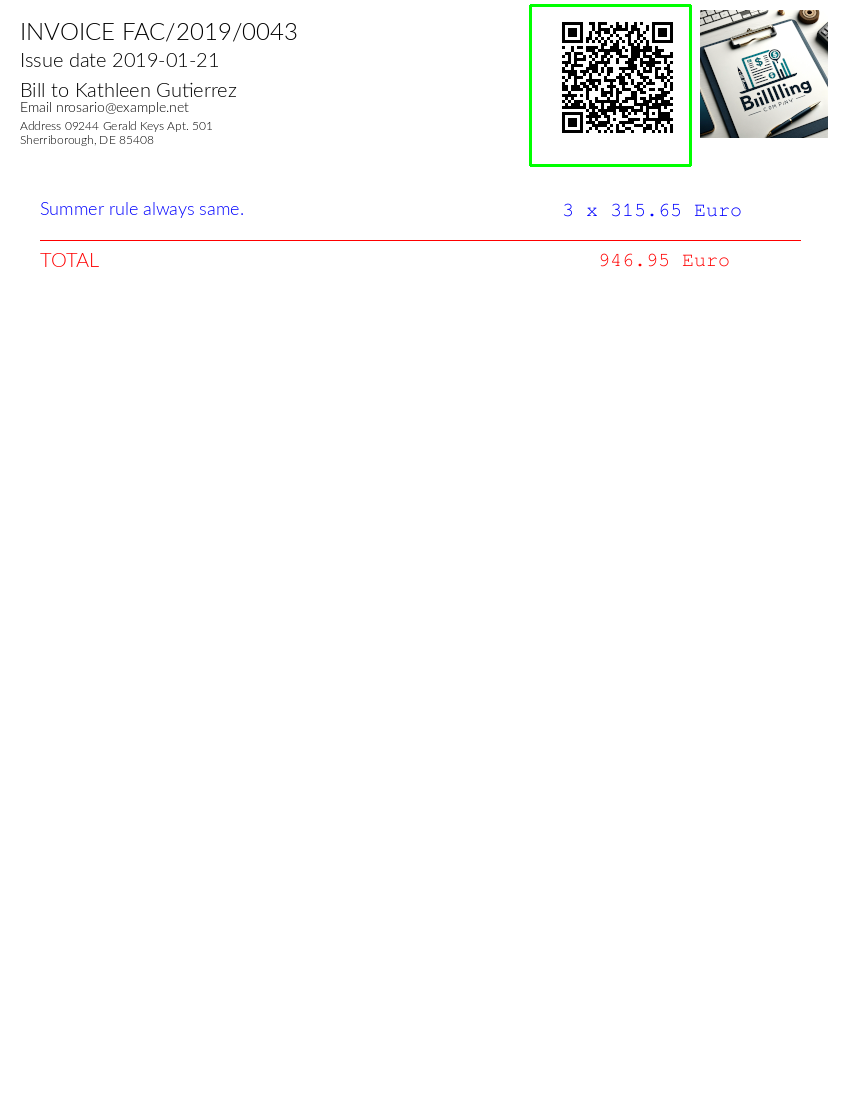
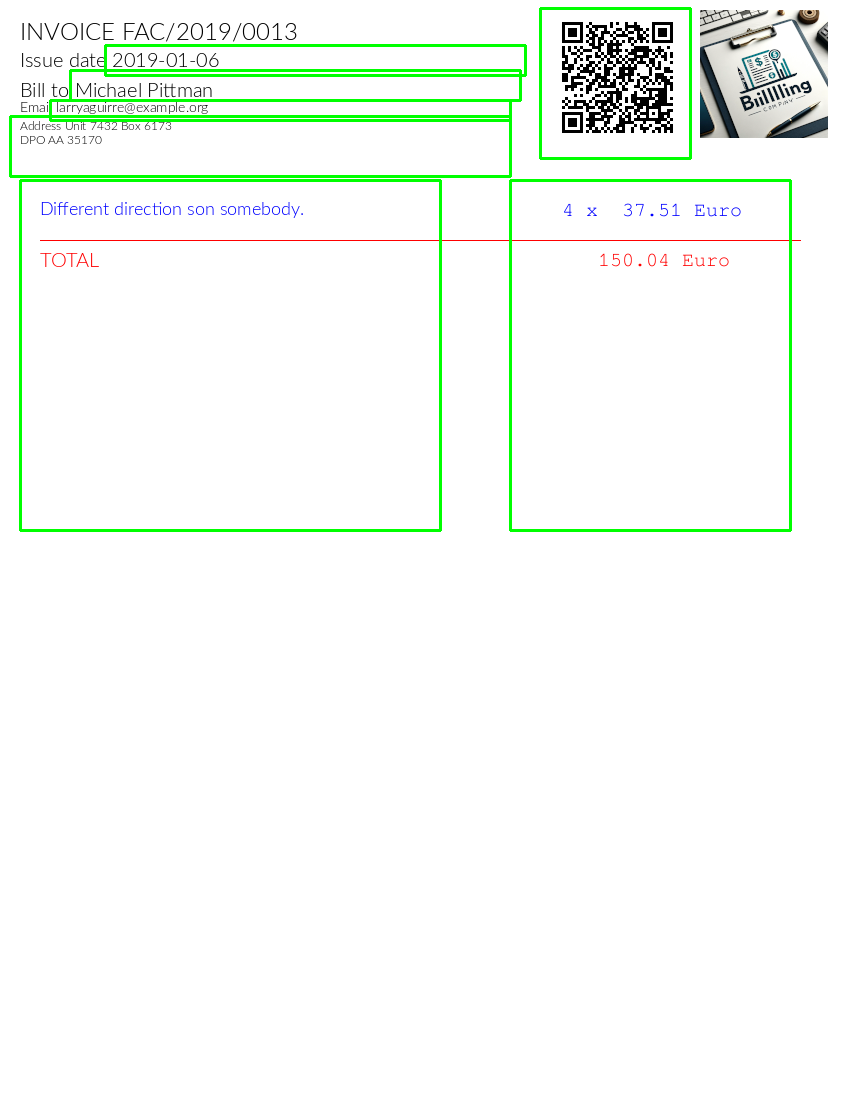
Fix: modification de la taille des zones d'extraction du texte

Changed region(s): [[0.0, 0.0, 0.8259, 0.4945], [0.9176, 0.1545, 0.9482, 0.4945], [0.7035, 0.1855, 0.7953, 0.2473]]

diff --git a/src/extract_data.py b/src/extract_data.py
@@ -86,12 +86,13 @@ def process_image(input_img_path, regions, scale_factor=2):
 
 # Définition des blocs
 predefined_regions = {
-    "Adresse": (10, 116, 400, 60),
-    "Nom": (70, 70, 250, 30),
-    "Mail": (50, 100, 250, 20),
-    "Date": (105, 45, 250, 30),
-    "Products": (20, 180, 400, 350),
-    "Quantities_and_prices": (540, 180, 250, 350)
+    "Adresse": (10, 116, 500, 60),
+    "Nom": (70, 70, 450, 30),
+    "Mail": (50, 100, 460, 20),
+    "Date": (105, 45, 420, 30),
+    "Products": (20, 180, 420, 350),
+    "Quantities_and_prices": (510, 180, 280, 350),
+    "Qrcode": (540, 8, 150, 150)
 }
 
 
@@ -130,7 +131,6 @@ def extraire_donnees(file):
         mail_client = extracted_texts["Mail"]
         date_facturation = parse(extracted_texts["Date"], languages=["fr", "en"])
 
-        # Use QR code datetime if available, otherwise use extracted date
         if datetime_qr:
             date_facturation = parse(datetime_qr, languages=["fr", "en"])
 
@@ -185,7 +185,7 @@ def extraire_donnees(file):
             "Prix": list(unique_products.values())
         })
 
-        # Aggregate quantities for the same product
+        # Agrégation des quantités si plusieurs fois le même produit dans une facture
         product_quantities = {}
         for product, quantity in zip(products_filtre, quantities):
             product_cleaned = product.strip().lower()

diff --git a/src/database.py b/src/database.py
@@ -1,10 +1,11 @@
-from sqlalchemy import DateTime, create_engine, MetaData, Table, Column, String, Date, Numeric, ForeignKey
+from sqlalchemy import DateTime, column, create_engine, MetaData, Table, Column, String, Date, Numeric, ForeignKey
 from sqlalchemy.dialects.postgresql import UUID
 import pandas as pd
 from dotenv import load_dotenv
 import os
+from sqlalchemy import text
 
-load_dotenv()  # take environment variables from .env.
+load_dotenv()
 database_url = os.getenv("DATABASE_URL")
 if not database_url:
     raise ValueError("DATABASE_URL environment variable not set")
@@ -49,7 +50,13 @@ achat = Table(
     Column("quantité", Numeric(15, 2)),
 )
 
-from sqlalchemy import text
+log = Table(
+    "log",
+    metadata,
+    Column("datetime", DateTime),
+    Column("fichier", String(50)),
+    Column("erreur", String(5000))
+)
 
 def create_tables(engine):
     """
